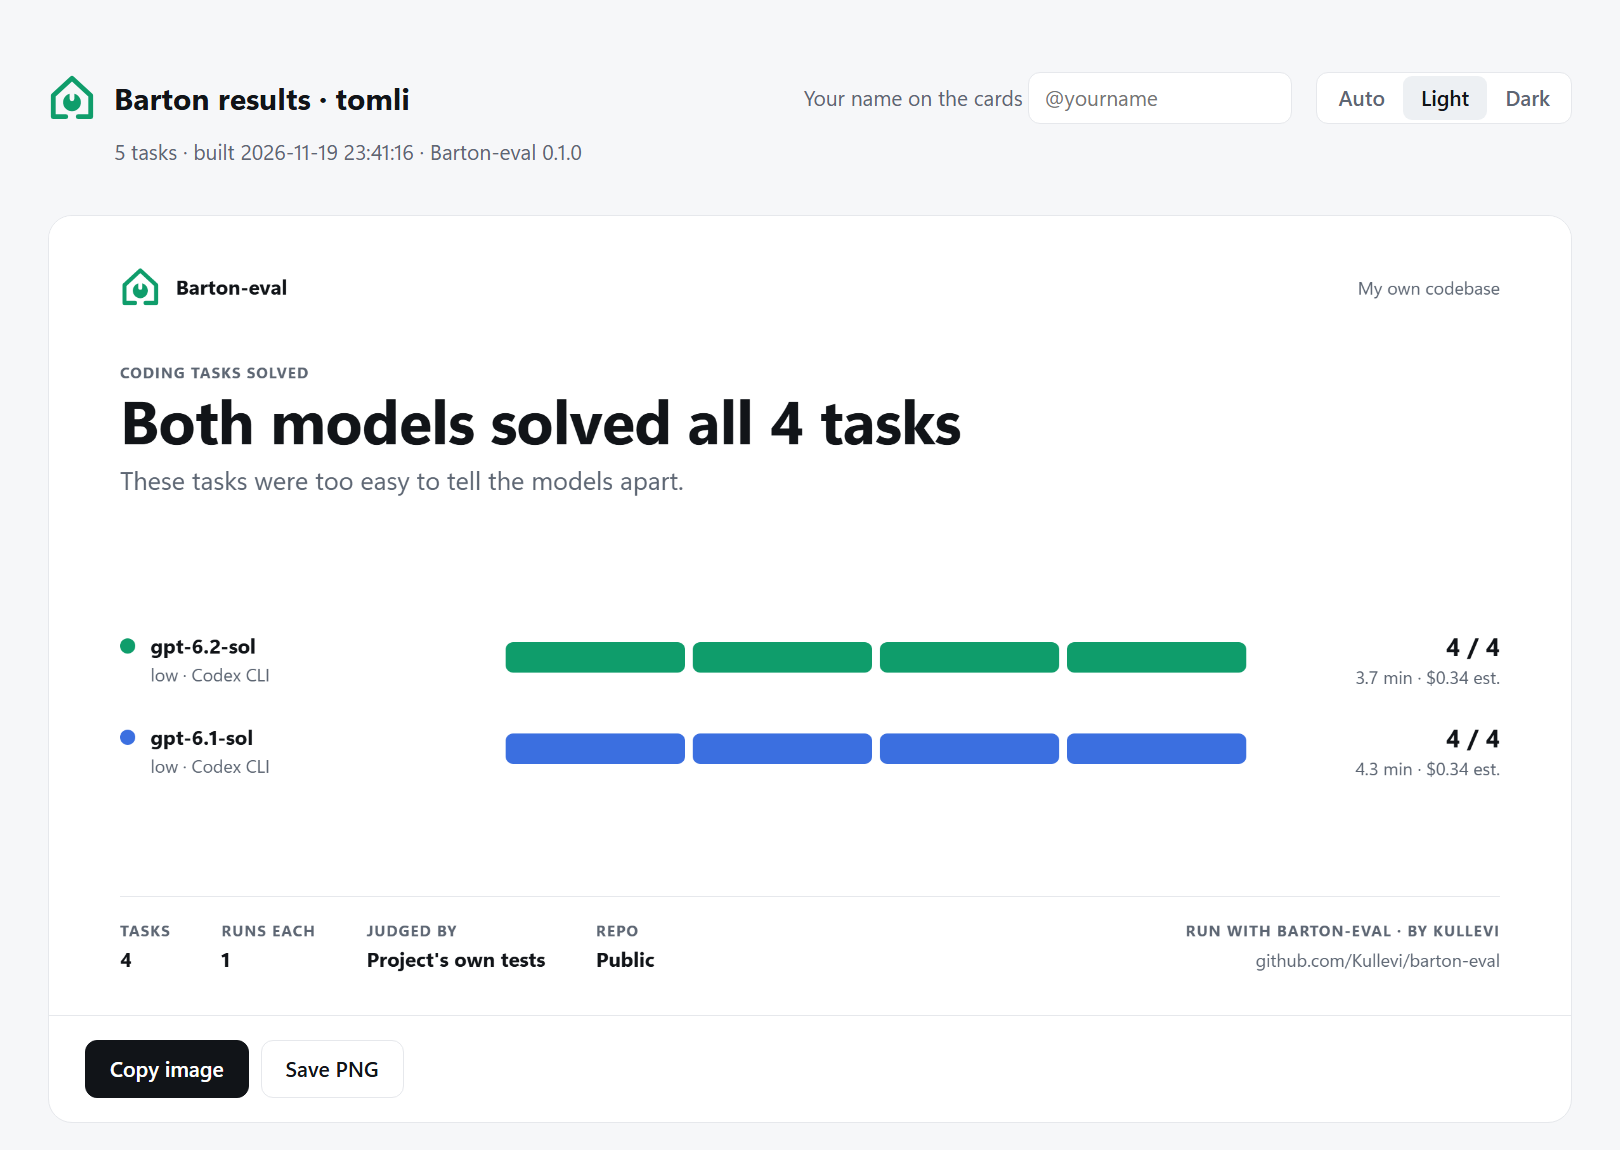
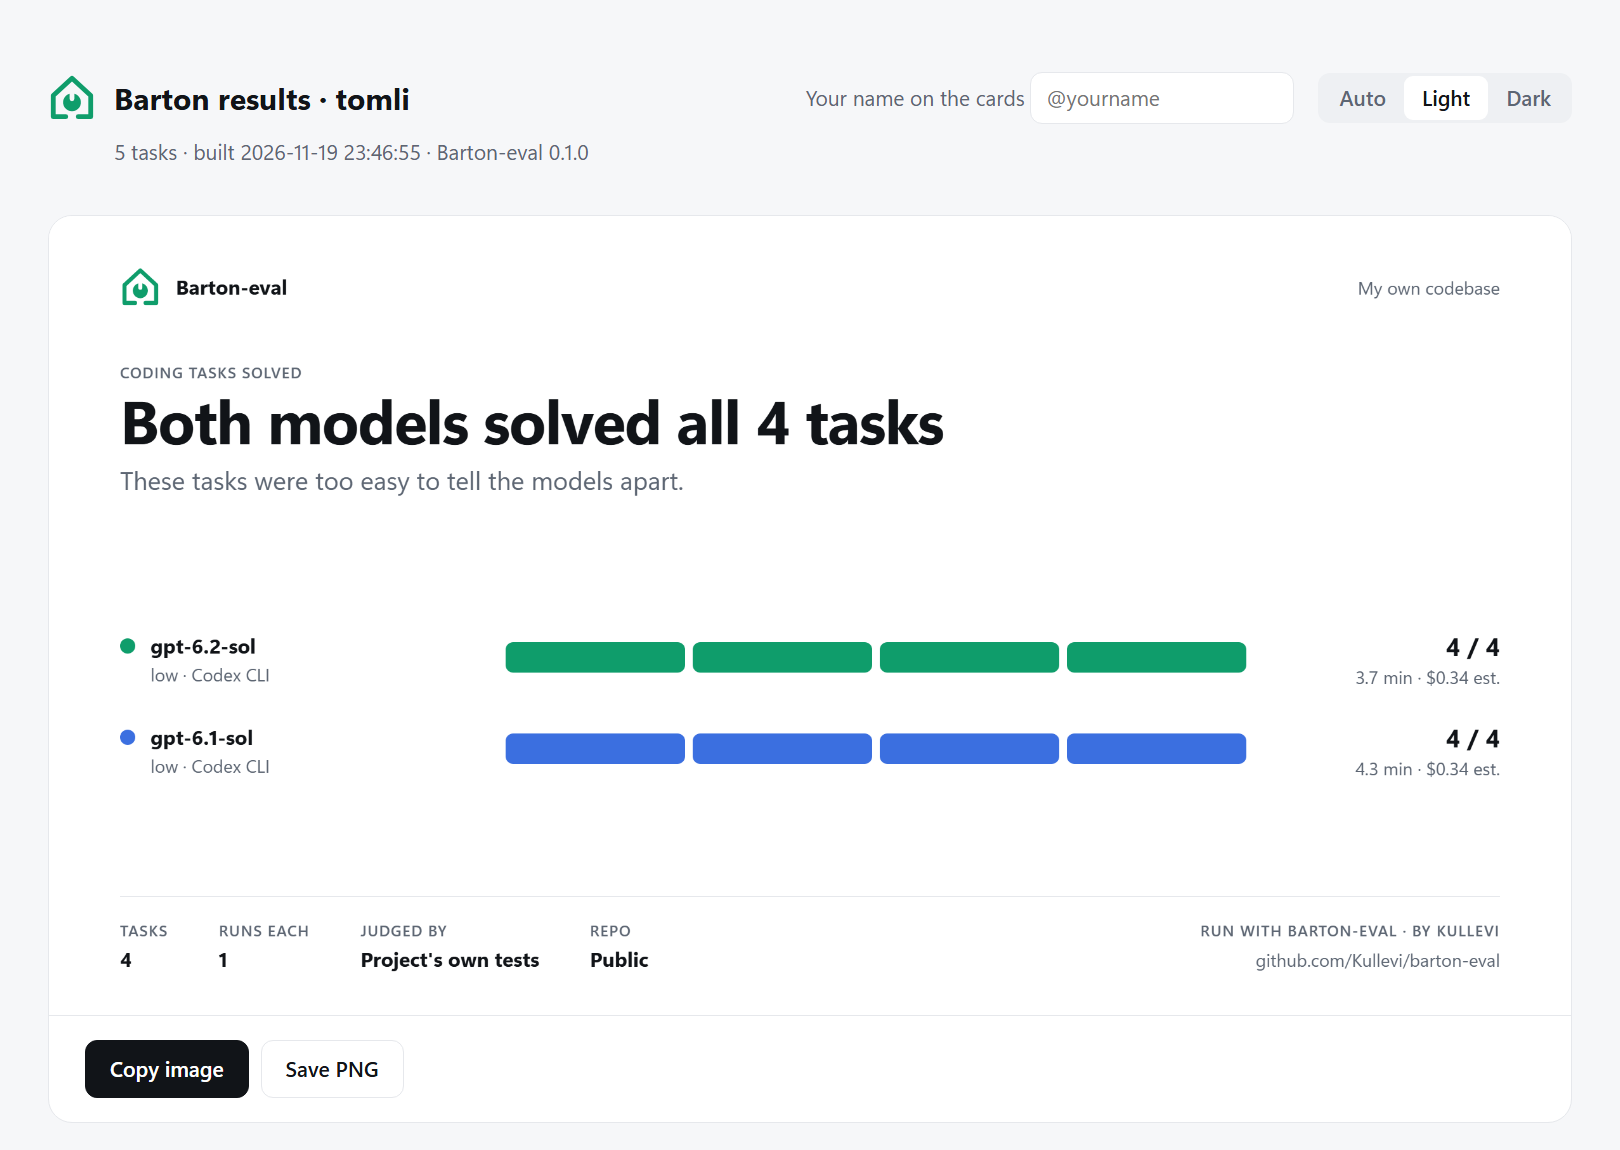
Use Kuakgan's live tokens exactly: track, faint, dark warning and error, label weight, headline tracking, segmented control on track

diff --git a/report.html b/report.html
@@ -2,8 +2,9 @@
 <!-- Barton-eval results page: `barton report` fills in the data below and opens
      this file. No server and no libraries. Each card is drawn on a canvas at the
      1200x630 link-preview size, so it can be copied or saved as a PNG and shared.
-     Visual system shared with Kuakgan: tokens, type scale 12/14/16/20/28/48,
-     8 px grid, series palette. -->
+     Visual system shared with Kuakgan (its dashboard.html :root): tokens, type
+     scale 12/14/16/20/28/48, 8 px grid, series palette. On a card the 56 px
+     margin is Kuakgan's 32 px frame padding plus its 24 px card padding. -->
 <html lang="en">
 <head>
 <meta charset="utf-8">
@@ -13,13 +14,13 @@
 <style>
 :root {
   --bg:#f6f7f9; --surface:#ffffff; --border:#e6e8ec; --text:#111418; --muted:#5d6673;
-  --accent:#0f9d6b; --track:#edf0f3; --warn:#c27a12; --err:#d0453b;
+  --accent:#0f9d6b; --track:#eef0f3; --faint:#8b929d; --warn:#c27a12; --err:#d0453b;
   --font:"Segoe UI Variable Text","Segoe UI",system-ui,-apple-system,Roboto,"Helvetica Neue",sans-serif;
 }
 @media (prefers-color-scheme: dark) {
-  :root:not([data-theme="light"]) { --bg:#0d1014; --surface:#151a20; --border:#252c35; --text:#eef1f4; --muted:#8b95a3; --accent:#2fd08b; --track:#222932; }
+  :root:not([data-theme="light"]) { --bg:#0d1014; --surface:#151a20; --border:#252c35; --text:#eef1f4; --muted:#8b95a3; --accent:#2fd08b; --track:#1e242c; --faint:#677180; --warn:#e0a043; --err:#f0675c; }
 }
-:root[data-theme="dark"] { --bg:#0d1014; --surface:#151a20; --border:#252c35; --text:#eef1f4; --muted:#8b95a3; --accent:#2fd08b; --track:#222932; }
+:root[data-theme="dark"] { --bg:#0d1014; --surface:#151a20; --border:#252c35; --text:#eef1f4; --muted:#8b95a3; --accent:#2fd08b; --track:#1e242c; --faint:#677180; --warn:#e0a043; --err:#f0675c; }
 * { box-sizing:border-box; }
 body { margin:0; background:var(--bg); color:var(--text); font:16px/1.5 var(--font); }
 main { max-width:1048px; margin:0 auto; padding:48px 16px 64px; }
@@ -30,21 +31,21 @@ header { display:flex; gap:16px 24px; align-items:center; flex-wrap:wrap; margin
 .sub { color:var(--muted); font-size:14px; margin:0 0 32px 44px; }
 .tools { display:flex; gap:16px; align-items:center; flex-wrap:wrap; font-size:14px; color:var(--muted); }
 .tools input { font:inherit; color:var(--text); background:var(--surface); border:1px solid var(--border); border-radius:8px; padding:6px 10px; width:176px; }
-.seg { display:inline-flex; background:var(--surface); border:1px solid var(--border); border-radius:8px; padding:2px; }
+.seg { display:inline-flex; background:var(--track); border-radius:8px; padding:2px; }
 .seg button { font:inherit; font-weight:600; font-size:14px; border:0; background:none; color:var(--muted); padding:4px 12px; border-radius:6px; cursor:pointer; }
-.seg button[aria-pressed="true"] { background:var(--track); color:var(--text); }
+.seg button[aria-pressed="true"] { background:var(--surface); color:var(--text); }
 .cards { display:grid; gap:32px; }
 .card { background:var(--surface); border:1px solid var(--border); border-radius:16px; overflow:hidden; }
 .card canvas { width:100%; height:auto; display:block; }
 .actions { display:flex; gap:8px; padding:16px 24px; border-top:1px solid var(--border); flex-wrap:wrap; }
 button.act { font:inherit; font-size:14px; font-weight:600; padding:8px 16px; border-radius:8px; border:1px solid var(--border); background:var(--surface); color:var(--text); cursor:pointer; }
 button.act.primary { background:var(--text); color:var(--surface); border-color:var(--text); }
-h2 { font-size:12px; font-weight:650; text-transform:uppercase; letter-spacing:.06em; color:var(--muted); margin:48px 0 16px; }
+h2 { font-size:12px; font-weight:600; text-transform:uppercase; letter-spacing:.06em; color:var(--muted); margin:48px 0 16px; }
 .table { background:var(--surface); border:1px solid var(--border); border-radius:16px; overflow-x:auto; }
 table { width:100%; border-collapse:collapse; font-size:14px; }
 th, td { text-align:left; padding:12px 16px; border-bottom:1px solid var(--border); vertical-align:top; }
 tr:last-child td { border-bottom:0; }
-th { color:var(--muted); font-weight:650; font-size:12px; text-transform:uppercase; letter-spacing:.06em; white-space:nowrap; }
+th { color:var(--muted); font-weight:600; font-size:12px; text-transform:uppercase; letter-spacing:.06em; white-space:nowrap; }
 td small { display:block; color:var(--muted); }
 .ok { color:var(--accent); font-weight:650; } .no { color:var(--err); font-weight:650; } .wait { color:var(--muted); }
 .empty { padding:48px 24px; text-align:center; color:var(--muted); background:var(--surface); border:1px dashed var(--border); border-radius:16px; }
@@ -80,9 +81,9 @@ footer a { color:var(--text); font-weight:600; text-decoration:none; }
 <script>
 const DATA = /*BARTON_DATA*/null;
 const THEMES = {
-  light: { bg: "#ffffff", text: "#111418", muted: "#5d6673", border: "#e6e8ec", track: "#edf0f3", tie: "#c5cbd3", accent: "#0f9d6b",
+  light: { bg: "#ffffff", text: "#111418", muted: "#5d6673", border: "#e6e8ec", track: "#eef0f3", tie: "#c5cbd3", accent: "#0f9d6b",
     series: ["#0f9d6b", "#3b6fe0", "#e0882b", "#8a5cf0", "#e0457b", "#1aa6b8", "#9aa3ad"] },
-  dark: { bg: "#151a20", text: "#eef1f4", muted: "#8b95a3", border: "#252c35", track: "#222932", tie: "#46505c", accent: "#2fd08b",
+  dark: { bg: "#151a20", text: "#eef1f4", muted: "#8b95a3", border: "#252c35", track: "#1e242c", tie: "#46505c", accent: "#2fd08b",
     series: ["#2fd08b", "#6b93f0", "#f0a352", "#a585f5", "#f06a95", "#3cc3d4", "#b4bcc5"] },
 };
 const FONT = '"Segoe UI Variable Text","Segoe UI",system-ui,-apple-system,Roboto,"Helvetica Neue",sans-serif';
@@ -264,10 +265,10 @@ function ellipsize(x, text, maxW) {
   return text + "…";
 }
 
-// Largest size from the scale (48, 40, 36, 28) that fits; past that, ellipsis.
+// Largest size from the scale (48, 28) that fits, via 40 and 36 in between; past that, ellipsis.
 function fitHeadline(x, text, maxW) {
   for (const s of [48, 40, 36, 28]) {
-    setFont(x, s, 650, s >= 40 ? -0.5 : 0);
+    setFont(x, s, 650, -0.02 * s);
     if (x.measureText(text).width <= maxW) return text;
   }
   return ellipsize(x, text, maxW);
@@ -301,7 +302,7 @@ function drawCard(spec, T) {
   x.fillText(ellipsize(x, handle ? `${handle}'s codebase` : "My own codebase", 480), W - M, 62); x.textAlign = "left";
 
   // Kicker, headline result and one supporting sentence.
-  setFont(x, 12, 650, 0.8); x.fillStyle = T.muted; x.fillText(spec.kicker.toUpperCase(), M, 128);
+  setFont(x, 12, 600, 0.72); x.fillStyle = T.muted; x.fillText(spec.kicker.toUpperCase(), M, 128);
   x.fillStyle = T.text; x.fillText(fitHeadline(x, spec.headline, W - 2 * M), M, 180);
   setFont(x, 20, 400); x.fillStyle = T.muted; x.fillText(ellipsize(x, spec.sub, W - 2 * M), M, 216);
 
@@ -360,13 +361,13 @@ function drawCard(spec, T) {
   const credit = "github.com/Kullevi/barton-eval";
   setFont(x, 14, 400); const creditW = x.measureText(credit).width;
   x.textAlign = "right";
-  setFont(x, 12, 650, 0.8); x.fillStyle = T.muted; x.fillText("RUN WITH BARTON-EVAL · BY KULLEVI", W - M, 568);
+  setFont(x, 12, 600, 0.72); x.fillStyle = T.muted; x.fillText("RUN WITH BARTON-EVAL · BY KULLEVI", W - M, 568);
   setFont(x, 14, 400); x.fillStyle = T.muted; x.fillText(credit, W - M, 592);
   x.textAlign = "left";
   let sx = M; const limit = W - M - Math.max(creditW, 280) - 32;
   for (const s of spec.stats) {
     setFont(x, 16, 650); const vw = x.measureText(s.value).width;
-    setFont(x, 12, 650, 0.8); const lw = x.measureText(s.label.toUpperCase()).width;
+    setFont(x, 12, 600, 0.72); const lw = x.measureText(s.label.toUpperCase()).width;
     const room = limit - sx;
     if (room < 96) break;
     const w = Math.min(Math.max(vw, lw), room);
